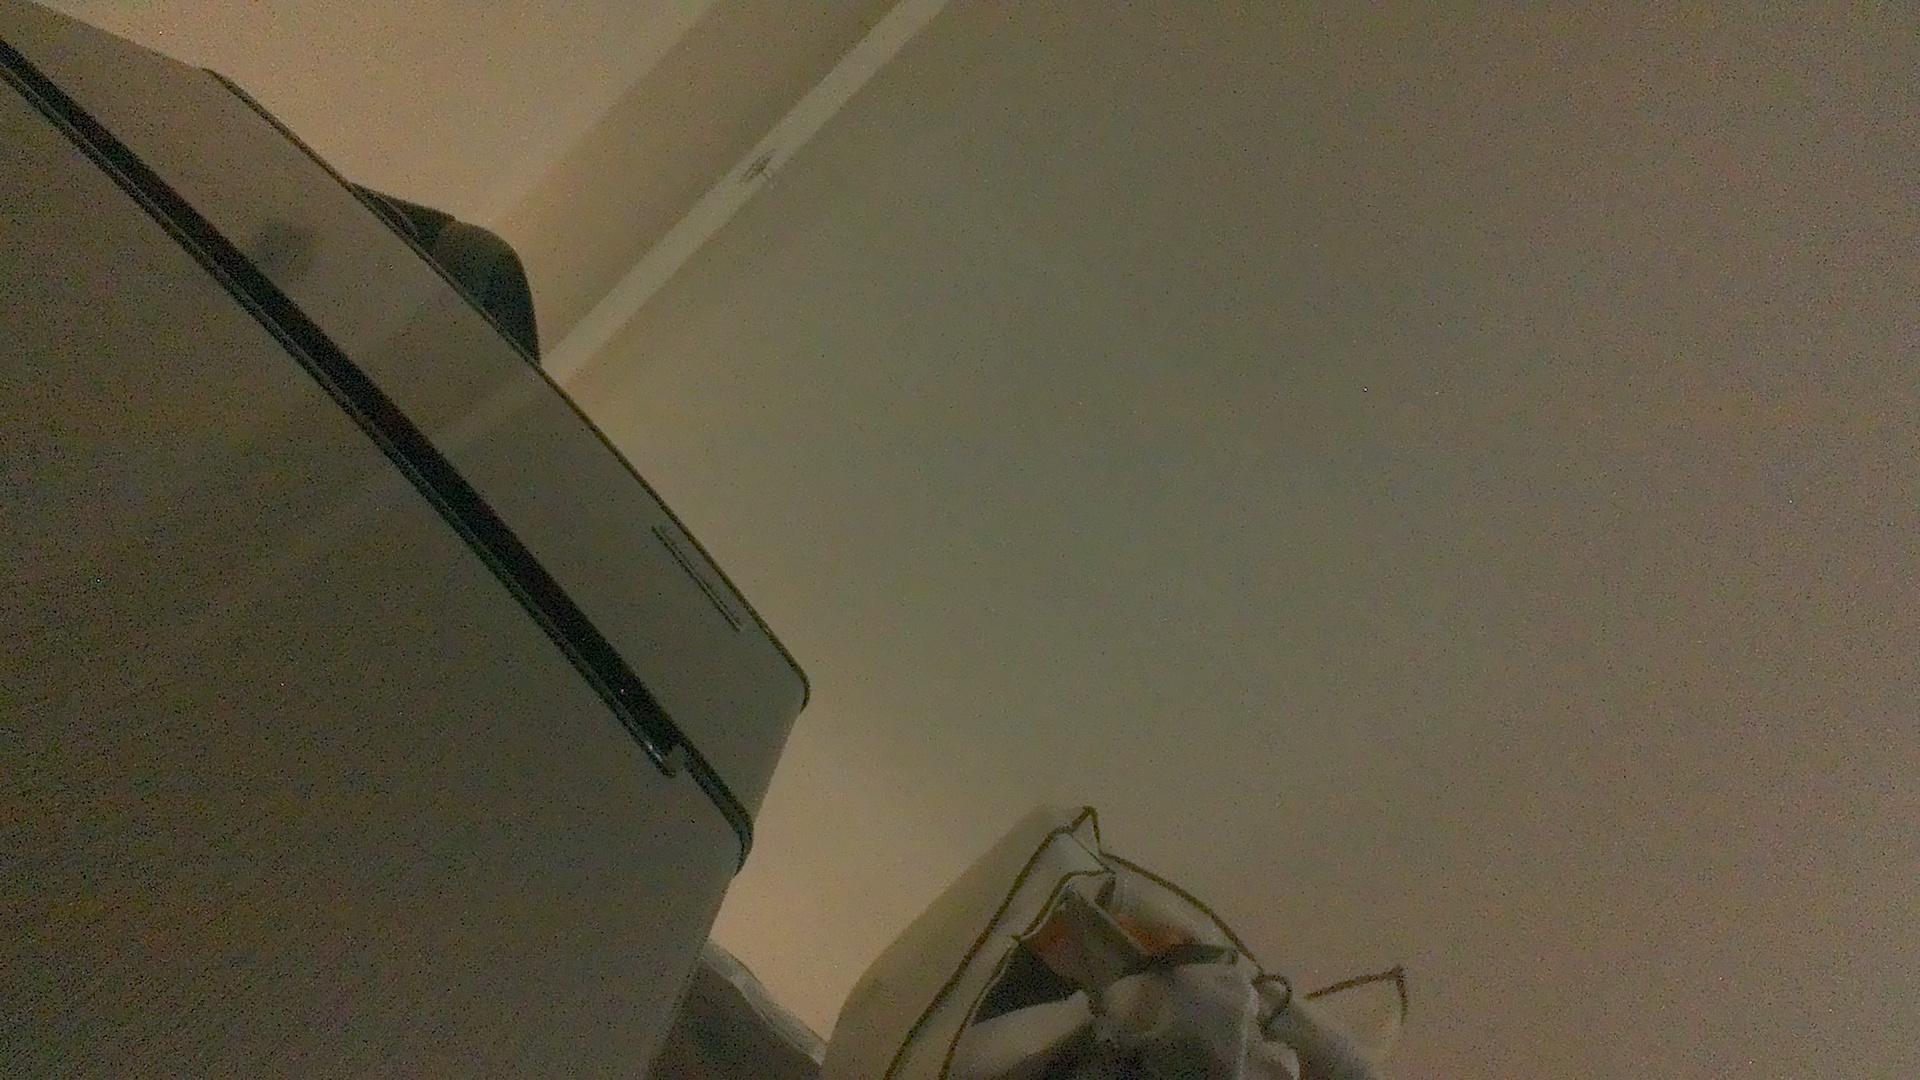
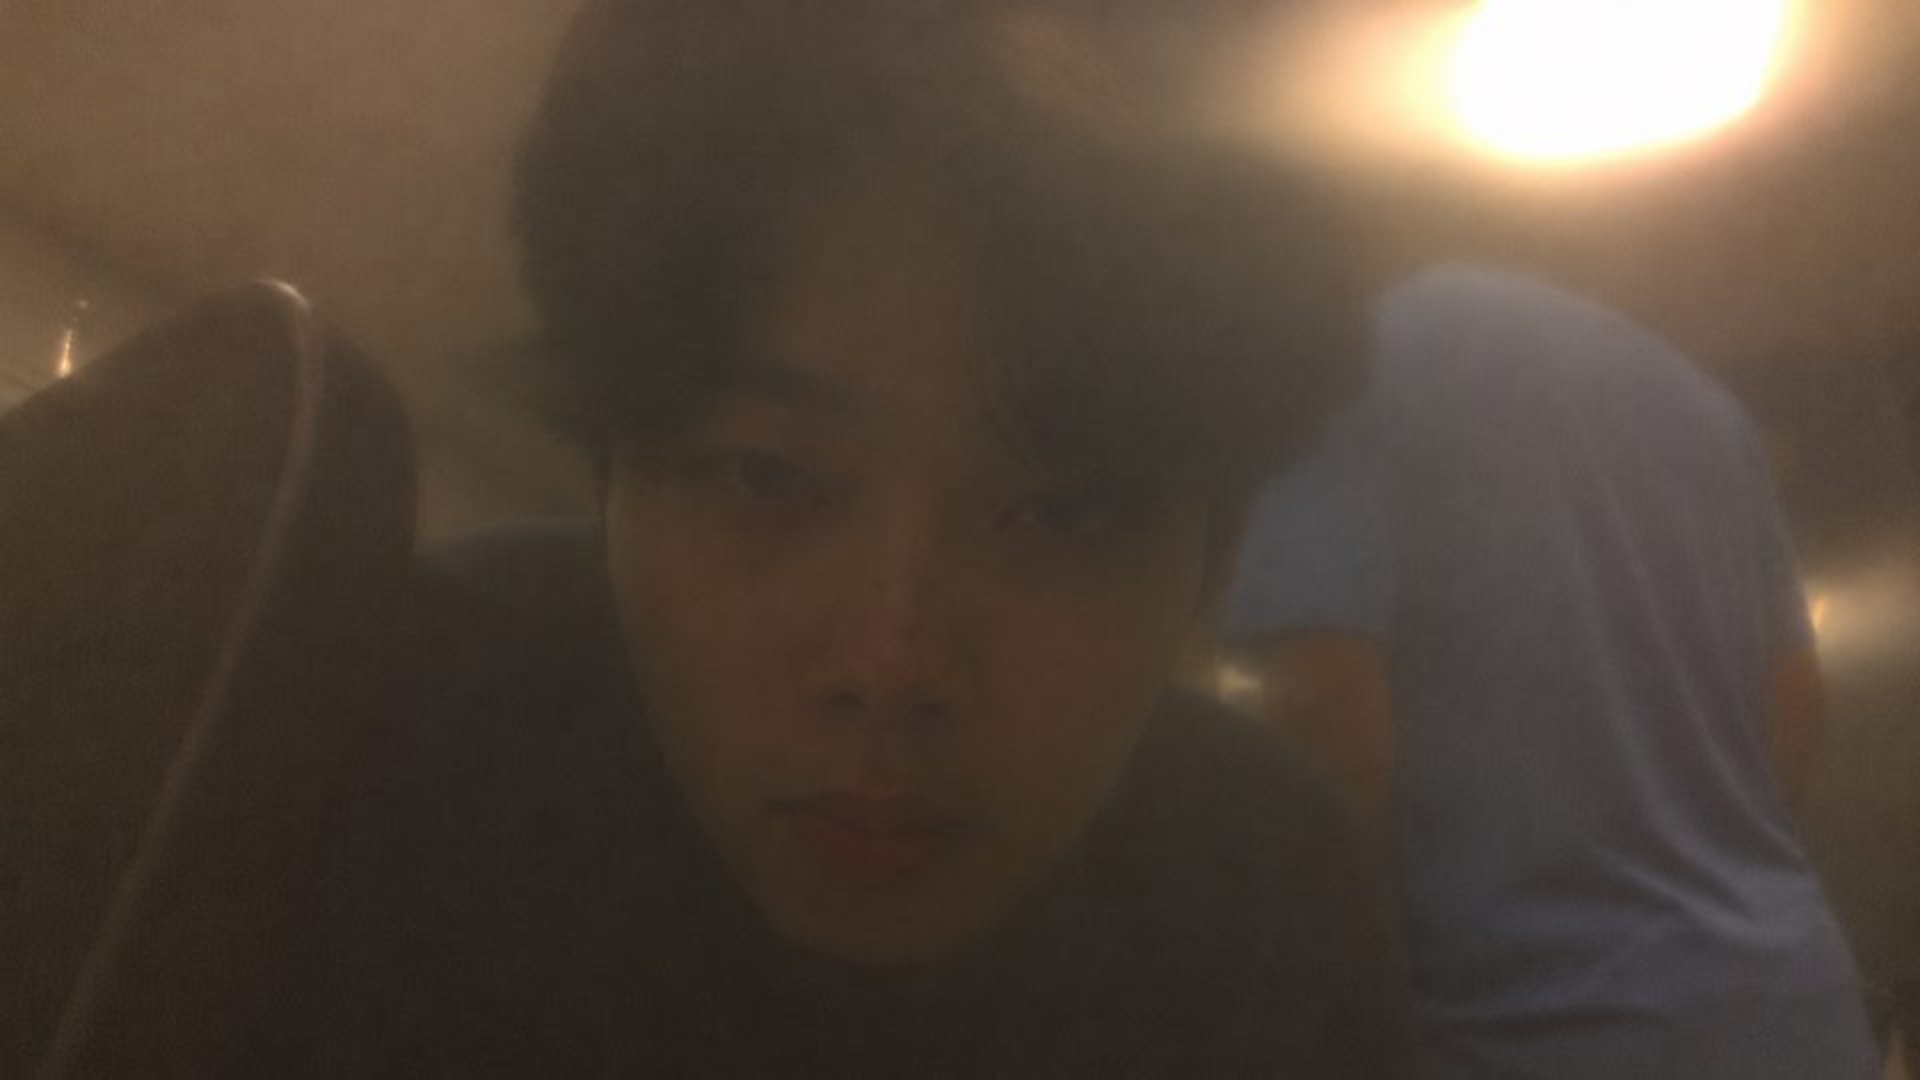
Add lab 07 frame pricing for the captured 1080p photo.

diff --git a/lab07/frames.py b/lab07/frames.py
@@ -5,6 +5,7 @@ from typing import Any, Iterable, Sequence
 from schema import BLACK_MAX, FLAT_SPREAD
 
 import cv2
+import shutil
 import time
 import json
 import numpy as np
@@ -114,37 +115,88 @@ def grab_frame(pipeline: str, warmup_frames: int = 15) -> np.ndarray:
 ############################
 
 def frame_bytes(width: int, height: int, fmt: str) -> int:
-    pass
+    # round, not truncate: 1.25 and 1.5 are exact in binary, but a product
+    # that lands a hair under an integer must still count as that integer.
+    return int(round(width * height * _bytes_per_pixel(fmt)))
 
 
 def bytes_per_second(width: int, height: int, fmt: str, fps: float) -> float:
-    pass
+    return float(frame_bytes(width, height, fmt) * fps)
 
 
 def frame_stats(pixels: Sequence[float] | Iterable[float]) -> dict[str, float]:
-    pass
+    if isinstance(pixels, np.ndarray):
+        values = np.asarray(pixels, dtype=np.float64).ravel()
+    elif isinstance(pixels, Sequence) and not isinstance(pixels, (str, bytes)):
+        values = np.asarray(pixels, dtype=np.float64).ravel()
+    else:
+        values = np.fromiter(pixels, dtype=np.float64)
+    if values.size == 0:
+        raise FrameError("frame_stats needs at least one pixel")
+    lowest = float(values.min())
+    highest = float(values.max())
+    mean = float(values.mean())
+    # The frame is the whole population, so the divisor is N, not N-1.
+    sd = float(values.std(ddof=0))
+    return {
+        "min": lowest,
+        "max": highest,
+        "mean": mean,
+        "spread": highest - lowest,
+        "sd": sd,
+        "samples": float(values.size),
+    }
 
 
 def classify(stats: dict[str, float]) -> tuple[str, str]:
-    pass
+    mean = float(stats["mean"])
+    spread = float(stats["spread"])
+    maximum = float(stats["max"])
+    detail = f"mean {mean:.4f}, spread {spread:.4f}"
+    # Silence first: a dead sensor is not a dark picture. One count in 255
+    # is the smallest thing an 8-bit frame can say.
+    if maximum <= BLACK_MAX:
+        return ("black", f"{detail}. Dead sensor, no signal.")
+    # Signal with no structure: a stuck test pattern or a flat field.
+    if spread < FLAT_SPREAD:
+        return ("flat", f"{detail}. Featureless flat field.")
+    # A real scene that never climbed out of the bottom tenth of the scale.
+    if mean < 0.10:
+        return ("underexposed", f"{detail}. Underexposed room.")
+    return ("scene", f"{detail}. Exposed and structured.")
 
 
 def conversion_bytes(width: int, height: int, src: str, dst: str) -> int:
-    pass
+    # The bus reads every source byte and writes every destination byte.
+    return frame_bytes(width, height, src) + frame_bytes(width, height, dst)
 
 
 def resize_bytes(src_w: int, src_h: int, dst_w: int, dst_h: int,
                  fmt: str) -> int:
-    pass
+    return frame_bytes(src_w, src_h, fmt) + frame_bytes(dst_w, dst_h, fmt)
 
 
 def normalise_bytes(width: int, height: int, channels: int = 3,
                     out_bytes: int = 4) -> int:
-    pass
+    # Read the integer pixels, write the wider tensor. The input element is
+    # one byte; out_bytes is the element width of the float tensor.
+    pixels = width * height * channels
+    return pixels * (1 + out_bytes)
 
 
 def summarise_formats(width: int, height: int) -> list[dict[str, Any]]:
-    pass
+    rgb_bytes = frame_bytes(width, height, "rgb")
+    rows: list[dict[str, Any]] = []
+    for fmt in FORMATS:
+        nbytes = frame_bytes(width, height, fmt)
+        rows.append({
+            "format": fmt,
+            "bytes_per_pixel": _bytes_per_pixel(fmt),
+            "bytes": nbytes,
+            "relative_to_rgb": nbytes / rgb_bytes,
+            "note": FORMAT_NOTES[fmt],
+        })
+    return rows
 
 
 ###############################
@@ -155,6 +207,7 @@ def main(
     image_filename: str = "captured_frame.jpg",
     json_filename: str = "frame_report.json",
     target_fps: float = 30.0,
+    source_image: str | None = None,
 ) -> None:
     out_path = Path(output_dir)
     out_path.mkdir(parents=True, exist_ok=True)
@@ -162,12 +215,16 @@ def main(
     img_path = out_path / image_filename
     json_path = out_path / json_filename
 
-    # 1. Capture frame from hardware
-    pipeline_str = gstreamer_pipeline()
-    frame_bgr = grab_frame(pipeline_str)
-
-    # 2. Save captured image to disk
-    cv2.imwrite(str(img_path), frame_bgr)
+    # 1. Capture frame from hardware, or price a frame already on disk.
+    if source_image:
+        frame_bgr = cv2.imread(source_image)
+        if frame_bgr is None:
+            raise RuntimeError(f"Could not read image {source_image}")
+        shutil.copyfile(source_image, img_path)
+    else:
+        pipeline_str = gstreamer_pipeline()
+        frame_bgr = grab_frame(pipeline_str)
+        cv2.imwrite(str(img_path), frame_bgr)
     height, width, _ = frame_bgr.shape
 
     # 3. Extract normalized luma/grayscale values in [0.0, 1.0] for classification
